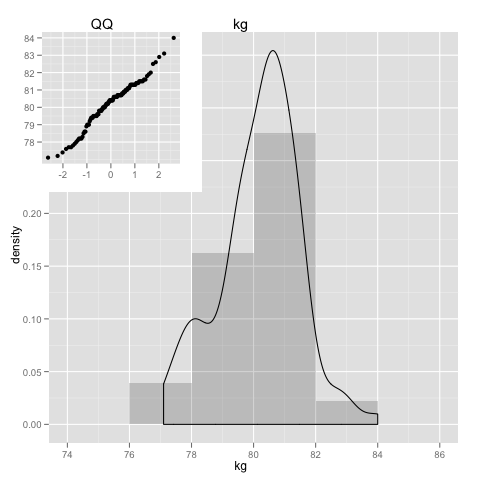
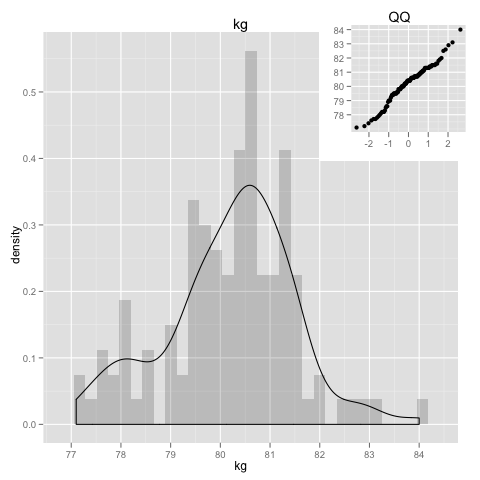
weight loss predictor: update

diff --git a/_posts/2011-02-05-weight-loss-predictor.html b/_posts/2011-02-05-weight-loss-predictor.html
@@ -24,13 +24,13 @@ categories:
 Got for 2010 Xmas a very cool book called the "4 Hour Body"(thanks Jose Santos) written by Tim Ferriss who write a previous favorite of mine about productivity, the 4 hour work week.
 </p>
 <p>
-Its an interesting book, because it has a good scientific approach, it doesn't just say do this do that and you'll be healthy, it actually says: I(Tim Ferriss) have tried this, exactly with these steps, during this time, this is how i measured, these are the results i got and by looking at most up-to-date medical research this is the most likely explanation for these results&hellip; Notice the similar principles of AB testing.
+Its an interesting book, because it has a scientific approach, it doesn't just say do this do that and you'll be healthy, it actually says: I(Tim Ferriss) have tried this, exactly with these steps, during this time, this is how i measured, these are the results i got and by looking at most up-to-date medical research this is the most likely explanation for these results&hellip; Notice the similar principles of AB testing.
 </p>
 <p>
 This book couldn't have arrived in a better time as i just peeked my heaviest weight in a  long time, blame it on [insert favorite reason]&hellip; so, long story short and I am now on the 3rd week of the low-carb diet described in the book. 
 </p>
 <p>
-But of course, like with all diets, I'm quickly growing impatient of when i'm going to reach my goal so that i can relax(just a bit) the current strict diet, lets try to predict it.
+But of course, like with all diets, I'm quickly growing impatient of when i'm going to reach my goals, so lets use R and monte carlo simulations to generate predictions and understand better what to expect.
 </p>
 
 <div class="outline-2" id="outline-container-1">
@@ -63,7 +63,7 @@ Have been tracking my weight using google spreadsheets, so i can get the data in
 
 
 <p>
-Normality is not really a requirement for this simulation, monte carlo methods are independent of the distribution, but lets anyway take a peek to see how the whole data looks like.
+Normality is not really a requirement for this simulation, monte carlo methods are independent of the distribution, but lets have a look of how the weight is distributed for the past 3 years.
 </p>
 
 
@@ -71,12 +71,12 @@ Normality is not really a requirement for this simulation, monte carlo methods a
 <pre class="src src-R"><span style="color: #b22222;"># </span><span style="color: #b22222;">include ggplot2
 </span><span style="color: #008b8b;">library</span>(ggplot2)
 
-<span style="color: #0000ff;">plotnorm</span> <span style="color: #008b8b;">&lt;-</span> <span style="color: #7f007f;">function</span> (mydata, mycolname) {
+<span style="color: #0000ff;">gghist</span> <span style="color: #008b8b;">&lt;-</span> <span style="color: #7f007f;">function</span> (mydata, mycolname) {
   pl <span style="color: #008b8b;">&lt;-</span> ggplot(data = mydata)
-  subvp <span style="color: #008b8b;">&lt;-</span> viewport(width=0.4, height=0.4, x=0.22, y=0.80)
+  subvp <span style="color: #008b8b;">&lt;-</span> viewport(width=0.35, height=0.35, x=0.84, y=0.84)
 
   his = pl + 
-        geom_histogram(aes_string(x=mycolname,y=<span style="color: #8b2252;">"..density.."</span>),alpha=0.2,binwidth=2) + 
+        geom_histogram(aes_string(x=mycolname,y=<span style="color: #8b2252;">"..density.."</span>),alpha=0.2) + 
         geom_density(aes_string(x=mycolname)) + 
         opts(title = names(mydata[mycolname]))
 
@@ -88,7 +88,7 @@ Normality is not really a requirement for this simulation, monte carlo methods a
   print(qqp, vp = subvp)
 }
 
-plotnorm(mydata, <span style="color: #8b2252;">"kg"</span>)
+gghist(mydata, <span style="color: #8b2252;">"kg"</span>)
 </pre>
 
 
@@ -98,7 +98,7 @@ plotnorm(mydata, <span style="color: #8b2252;">"kg"</span>)
 <img src="http://al3xandr3.github.com/img/w-loss-normal.png" alt="http://al3xandr3.github.com/img/w-loss-normal.png" />
 </p>
 <p>
-Its close to normal distribution and says my weight has been mostly(in average) 80.5kg for the past 3 years.
+Its close to normal distribution and says my weight has been mostly(in average) 80.5kg.
 </p>
 </div>
 </div>
@@ -114,11 +114,14 @@ Its close to normal distribution and says my weight has been mostly(in average) 
 Now using Monte Carlo methods lets simulate the future based on the weight changes that happened since start of diet.
 </p>
 <p>
-It uses the weight changes by day, so we need to do some trickery to fill in the missing days so we get the changes for every single day. And the idea is if we have only day1=81 and day3=80, then we calculate that day2=80.5, because in 2 days we see a diference of 1, then per day is 0.5. 
+Because its going to use weight changes by day we need to do some trickery to fill in the missing days and calculate the changes for every single day. 
+The idea for filling in missing days is; if we have only day1=81 and day3=80, then we calculate that day2=80.5, because in 2 days we see a diference of 1, then per day is 0.5. 
+</p>
+<p>
 We can confirm(prove) that this calculated assumption is a good one, by later comparing the simulation on data with all days filled in against the same data with some removed days in the middle, and confirm that results are the same.
 </p>
 <p>
-So lets gets the full days with the delta:
+So lets gets the every day weight(kg) and its change(delta):
 </p>
 
 
@@ -137,7 +140,7 @@ So lets gets the full days with the delta:
   <span style="color: #7f007f;">return</span>(alldays)
 }
 
-<span style="color: #b22222;">#</span><span style="color: #b22222;">only weight from diet
+<span style="color: #b22222;"># </span><span style="color: #b22222;">from start of diet
 </span>dietdata = subset(mydata, timestamp &gt;= <span style="color: #8b2252;">"2011-01-17"</span>)
 lastweight = tail(dietdata$kg, n=1)
 
@@ -179,12 +182,14 @@ dietalldays
 19 2011-02-04 80.000  0.500
 20 2011-02-05 80.200  0.200
 21 2011-02-06 80.700  0.500
+22 2011-02-07 80.500 -0.200
+23 2011-02-08 80.000 -0.500
 </pre>
 
 
 
 <p>
-The big weight loss jump on row 9 and 10 were because of a nasty stomach virus, so when getting back to normality i got some weight back.
+The big weight loss on rows 9,10,11 was because of a nasty stomach virus, so when getting back to normality i got most of that weight back.
 </p>
 
 </div>
@@ -205,8 +210,10 @@ The big weight loss jump on row 9 and 10 were because of a nasty stomach virus, 
   <span style="color: #7f007f;">return</span>(weight)
 }
 
-<span style="color: #b22222;"># </span><span style="color: #b22222;">Simulate it 10k times
-</span>summary(replicate(10000, predict.weight.in.days(7, lastweight, kgdelta)))
+<span style="color: #b22222;"># </span><span style="color: #b22222;">simulate it 10k times
+</span>mcWeightWeek = replicate(10000, predict.weight.in.days(7, lastweight, kgdelta))
+
+summary(mcWeightWeek)
 </pre>
 
 
@@ -216,12 +223,24 @@ The big weight loss jump on row 9 and 10 were because of a nasty stomach virus, 
 <pre class="example">
 
    Min. 1st Qu.  Median    Mean 3rd Qu.    Max. 
-  75.60   78.78   79.60   79.57   80.38   83.40
+  74.57   77.95   78.77   78.72   79.52   82.88
 </pre>
 
 
 <p>
-It says around ~79.6 in a week's time. Let see if that makes sense: its been now 3 weeks of diet, with a loss of 84-80.7=3.3, thus 1.1 per week, so 80.7-1.1 = 79.6 kg matches up, thus predictor is calculating correctly.
+Another good thing about monte carlo methods is that they give a distribution of the prediction, so its possible to get a feeling of how certain the average is; either very certain with a big central peak, or not that certain when the graph is flatter and all over the place:
+</p>
+
+
+
+<pre class="src src-R">gghist(data.frame(kg=mcWeightWeek), <span style="color: #8b2252;">"kg"</span>)
+</pre>
+
+
+
+
+<p>
+<img src="http://al3xandr3.github.com/img/w-loss-week.png" alt="http://al3xandr3.github.com/img/w-loss-week.png" />
 </p>
 </div>
 
@@ -247,8 +266,10 @@ It says around ~79.6 in a week's time. Let see if that makes sense: its been now
   <span style="color: #7f007f;">return</span>(days)
 }
 
-<span style="color: #b22222;"># </span><span style="color: #b22222;">Simulate it 10k times
-</span>summary(replicate(10000, days.to.weight(75, lastweight, kgdelta)))
+<span style="color: #b22222;"># </span><span style="color: #b22222;">simulate it 10k times
+</span>mcDays75 = replicate(10000, days.to.weight(75, lastweight, kgdelta))
+
+summary(mcDays75)
 </pre>
 
 
@@ -258,15 +279,33 @@ It says around ~79.6 in a week's time. Let see if that makes sense: its been now
 <pre class="example">
 
    Min. 1st Qu.  Median    Mean 3rd Qu.    Max. 
-   8.00   25.00   33.00   35.98   44.00  167.00
+   6.00   20.00   27.00   29.05   35.00  116.00
 </pre>
 
 
 <p>
-In a month + a week or so, IF i continue to lose weight at this speed.
+And the distribution:
+</p>
+
+
+
+<pre class="src src-R">gghist(data.frame(days=mcDays75), <span style="color: #8b2252;">"days"</span>)
+</pre>
+
+
+
+
+<p>
+<img src="http://al3xandr3.github.com/img/w-loss-75.png" alt="http://al3xandr3.github.com/img/w-loss-75.png" />
 </p>
 <p>
-Weight loss is easier at the beginning of a diet, but i have now a better idea on what to expect, and better yet, i can re-run this code from time to time to re-calculate the predictions, that will automatically adapt to weight loss slow downs if/when they happen.
+Interesting, its more a Poison distribution then a Normal one.
+</p>
+<p>
+Also note that, weight loss is faster at the beginning of a diet, it tends to slow down over time, so to keep the predictions valid we need to continue record the weight and re-run the predictions from time to time.
+</p>
+<p>
+But as you see the slow carb diet seems to work, even without exercise. Tim's book is great, focusing on the smallest things possible for the bigger results(=efficiency).
 </p></div>
 </div>
 </div>
